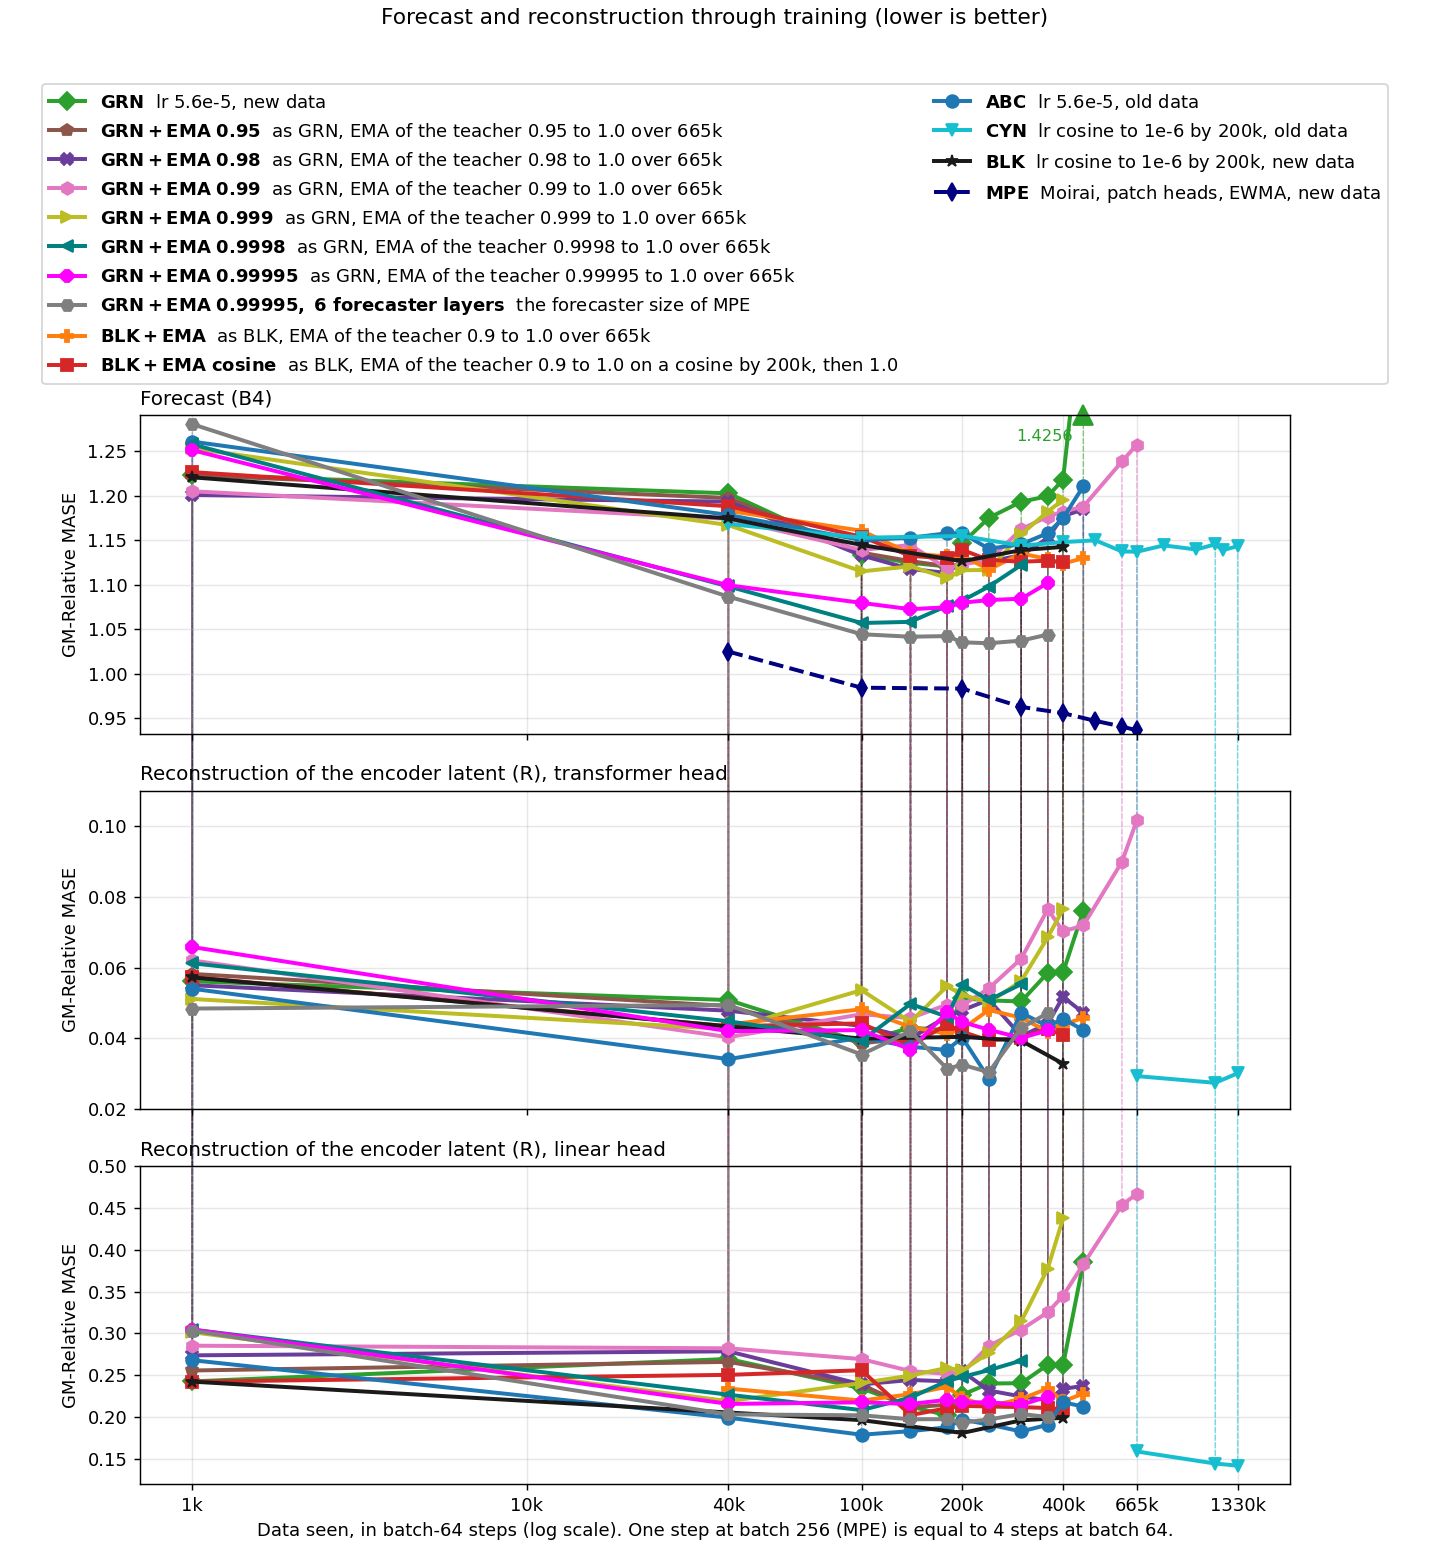
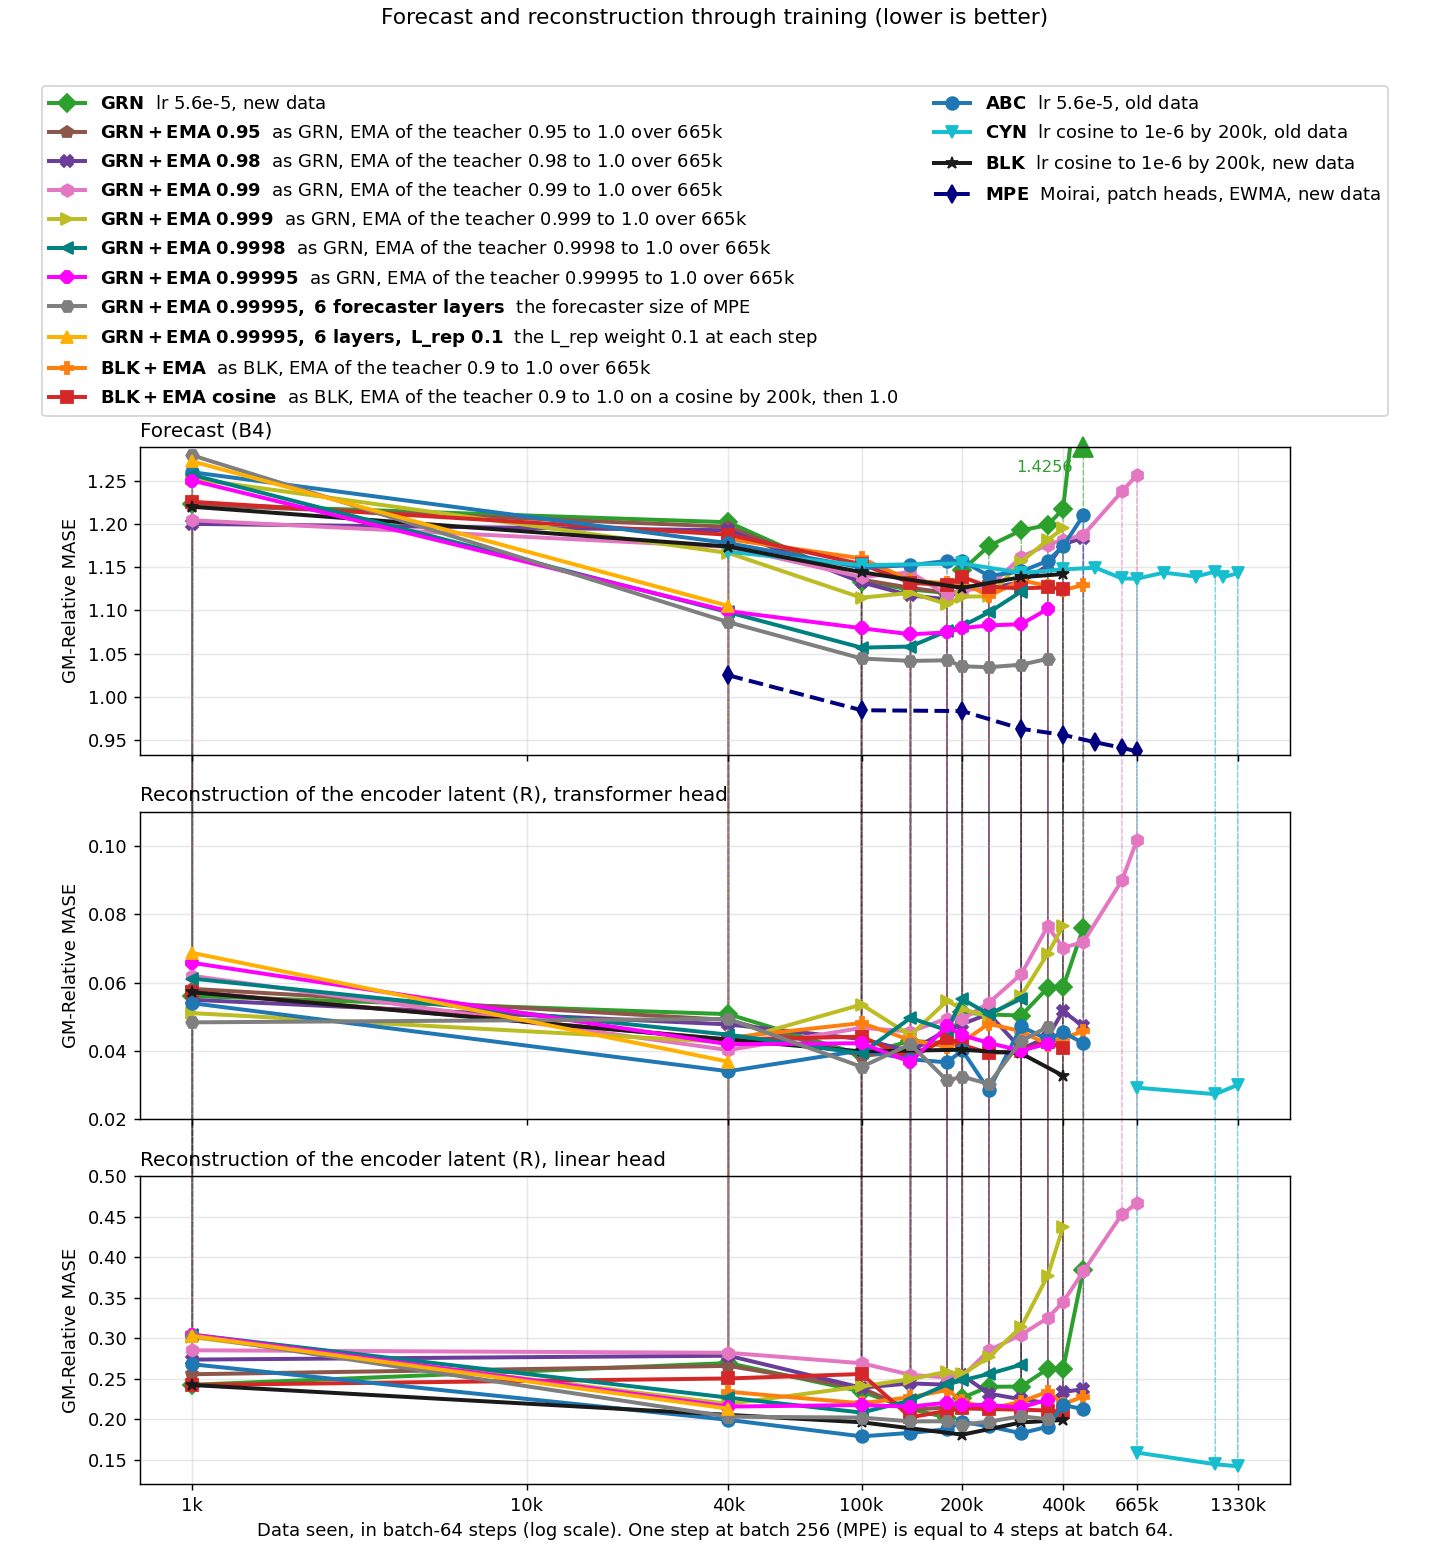
Score figure: the mini run grn_ema099995_f6_rep01 (L_rep weight 0.1) at 1k and 40k

diff --git a/reports/2026-10-10_frequency_family_head/scripts/plot_green_scores.py b/reports/2026-10-10_frequency_family_head/scripts/plot_green_scores.py
@@ -1,7 +1,8 @@
 """The forecast and the reconstruction of the encoder latent through training,
 for the runs of this report (GRN, BLK+EMA, GRN+EMA 0.95, GRN+EMA 0.98, GRN+EMA
-0.99, GRN+EMA 0.999, GRN+EMA 0.9998, GRN+EMA 0.99995, GRN+EMA 0.99 with a
-forecaster of 6 layers, BLK+EMA cosine) next to
+0.99, GRN+EMA 0.999, GRN+EMA 0.9998, GRN+EMA 0.99995, GRN+EMA 0.99995 with a
+forecaster of 6 layers, the same with the L_rep weight 0.1 at each step,
+BLK+EMA cosine) next to
 ABC, CYN and BLK,
 and the forecast of MPE (Moirai, patch heads, EWMA, new data, batch 256: x 4
 for the data seen). Writes plots/forecast_and_reconstruction.png: three panels
@@ -64,17 +65,19 @@ GRN_EMA099995 = "grn_ema099995"
 GRN_EMA099995_COLOUR = "#ff00ff"  # its colour in plot_ema_plan.py
 GRN_EMA099995_F6 = "grn_ema099995_f6"
 GRN_EMA099995_F6_COLOUR = "#7f7f7f"  # no other run of this figure has this colour
+GRN_EMA099995_F6_REP01 = "grn_ema099995_f6_rep01"
+GRN_EMA099995_F6_REP01_COLOUR = "#ffb000"  # no other run of this figure has this colour
 GRN_EMA095 = "grn_ema095"
 GRN_EMA095_COLOUR = "#8c564b"  # its colour in plot_ema_plan.py
 BLK_EMACOS = "blk_emacos"
 BLK_EMACOS_COLOUR = "#d62728"  # its colour in plot_ema_plan.py
 # The runs of this report: their forecast comes from results/scores.tsv.
 NEW_RUNS = [GREEN, BLK_EMA, GRN_EMA095, GRN_EMA, GRN_EMA099, GRN_EMA0999, GRN_EMA09998,
-            GRN_EMA099995, GRN_EMA099995_F6, BLK_EMACOS]
+            GRN_EMA099995, GRN_EMA099995_F6, GRN_EMA099995_F6_REP01, BLK_EMACOS]
 # Older runs with a forecast at 1k steps in results/scores.tsv: arm -> run.
 FIRST_STEPS = {"cf419_cos200k": "blk", P + "_lr10x": "abc"}
 # The newest runs: drawn above the others, so that their first points show.
-ON_TOP = {GRN_EMA09998, GRN_EMA099995, GRN_EMA099995_F6}
+ON_TOP = {GRN_EMA09998, GRN_EMA099995, GRN_EMA099995_F6, GRN_EMA099995_F6_REP01}
 MPE = "cf421ew_moirai_native"
 # Its R (transformer head 0.12 to 0.21) lies far above the R panels.
 FORECAST_ONLY = {MPE}
@@ -96,6 +99,8 @@ RUNS = [
      "over 665k", GRN_EMA099995_COLOUR, "8"),
     (GRN_EMA099995_F6, r"$\mathbf{GRN+EMA\ 0.99995,\ 6\ forecaster\ layers}$  the forecaster "
      "size of MPE", GRN_EMA099995_F6_COLOUR, "H"),
+    (GRN_EMA099995_F6_REP01, r"$\mathbf{GRN+EMA\ 0.99995,\ 6\ layers,\ L\_rep\ 0.1}$  the L_rep "
+     "weight 0.1 at each step", GRN_EMA099995_F6_REP01_COLOUR, "^"),
     (BLK_EMA, r"$\mathbf{BLK+EMA}$  as BLK, EMA of the teacher 0.9 to 1.0 over 665k",
      BLK_EMA_COLOUR, "P"),
     (BLK_EMACOS, r"$\mathbf{BLK+EMA\ cosine}$  as BLK, EMA of the teacher 0.9 to 1.0 on a cosine "
@@ -110,7 +115,8 @@ RUNS = [
 OURS = STUDY / "results"
 # The R tables of collect_recon.py (first_steps: the 1k point of BLK and ABC).
 OUR_R_TABLES = ["green", "blk_ema", "grn_ema095", "grn_ema098", "grn_ema099", "grn_ema0999",
-                "grn_ema09998", "grn_ema099995", "grn_ema099995_f6", "blk_emacos", "first_steps"]
+                "grn_ema09998", "grn_ema099995", "grn_ema099995_f6", "grn_ema099995_f6_rep01",
+                "blk_emacos", "first_steps"]
 # panel title, y range, the score tables, and whether the forecast of the
 # runs of this report comes from results/scores.tsv
 PANELS = [

diff --git a/reports/2026-10-10_frequency_family_head/scripts/collect_recon.py b/reports/2026-10-10_frequency_family_head/scripts/collect_recon.py
@@ -27,6 +27,7 @@ TABLES = {"abc_gift": "green", "blk_ema": "blk_ema", "grn_ema095": "grn_ema095",
           "grn_ema098": "grn_ema098", "grn_ema099": "grn_ema099", "grn_ema0999": "grn_ema0999",
           "grn_ema09998": "grn_ema09998", "grn_ema099995": "grn_ema099995",
           "grn_ema099995_f6": "grn_ema099995_f6",
+          "grn_ema099995_f6_rep01": "grn_ema099995_f6_rep01",
           "blk_emacos": "blk_emacos",
           "cf419_cos200k": "first_steps",
           "k3_r100_09_lr56_fix09_dec10k_lr10x": "first_steps"}
